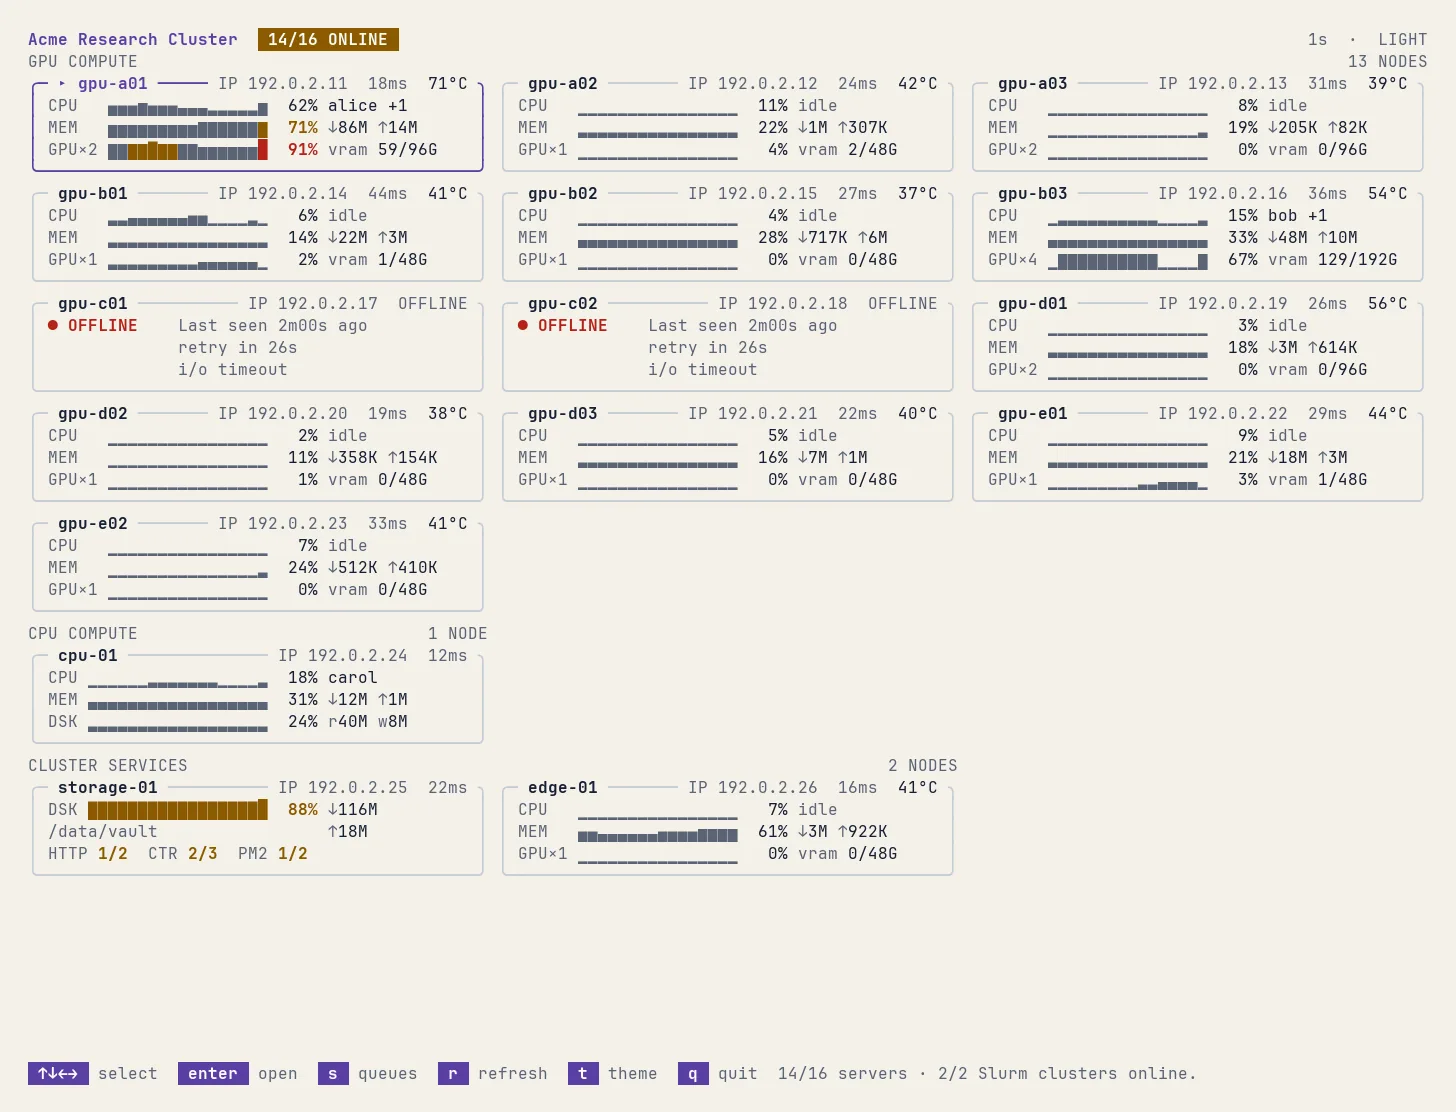
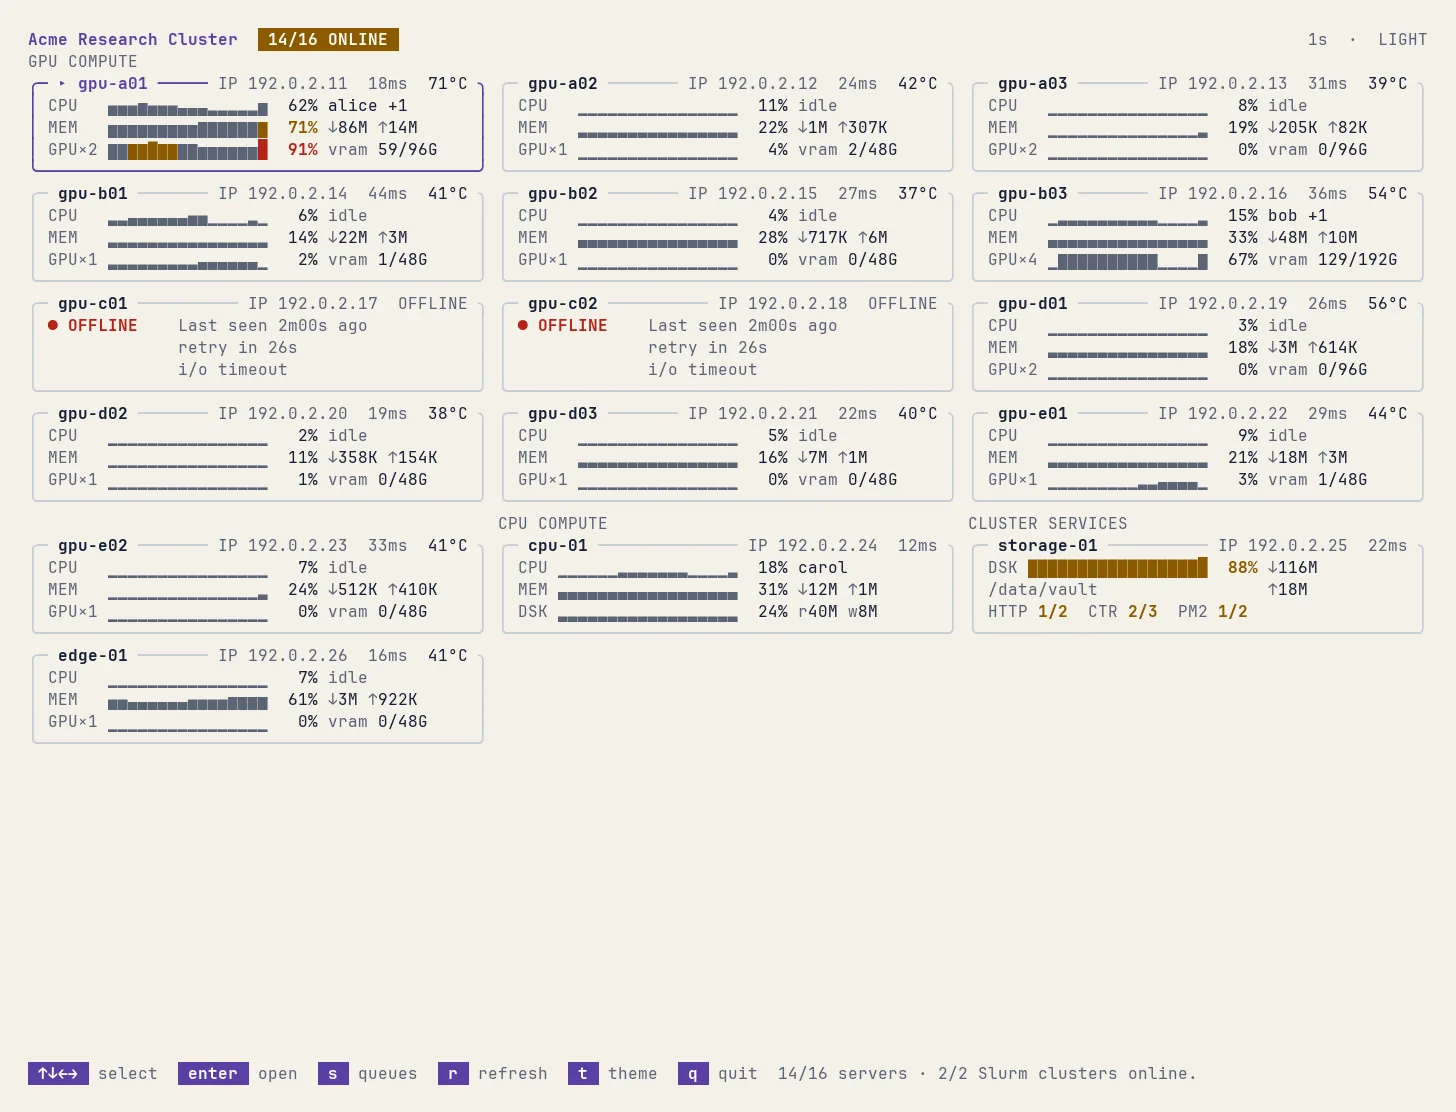
Pack hub cards across groups instead of starting each group on a new row.
A muted group name sits above the first card of that group, in its own column, so the next group fills the rest of the row.

diff --git a/cmd/fleetty/hub.go b/cmd/fleetty/hub.go
@@ -571,8 +571,10 @@ type hubDisplayRow struct {
 }
 
 type hubGroupSpan struct {
-	group int
-	span  int
+	group  int
+	column int
+	span   int
+	label  bool
 }
 
 type hubPage struct {
@@ -1046,31 +1048,7 @@ func (m *hubModel) moveCursorHorizontal(delta int) {
 
 func (m *hubModel) pages() []hubPage {
 	columns := m.columns()
-	// Each group owns its rows. A new group always starts on the next row, so
-	// two headers never share a line and a wrapped tail is not mixed in.
-	var grid []hubDisplayRow
-	row := hubDisplayRow{}
-	flushRow := func() {
-		if len(row.nodes) == 0 {
-			return
-		}
-		grid = append(grid, row)
-		row = hubDisplayRow{}
-	}
-	for groupIndex, group := range m.nodeGroups() {
-		nodes := group.nodes
-		if len(nodes) == 0 {
-			continue
-		}
-		flushRow()
-		for len(nodes) > 0 {
-			take := min(columns, len(nodes))
-			row.headings = append(row.headings, hubGroupSpan{group: groupIndex, span: take})
-			row.nodes = append(row.nodes, nodes[:take]...)
-			nodes = nodes[take:]
-			flushRow()
-		}
-	}
+	grid := m.packedRows(columns)
 	heightBudget := max(hubCardHeight+1, max(10, m.height)-2)
 	var pages []hubPage
 	current := hubPage{}
@@ -1083,31 +1061,80 @@ func (m *hubModel) pages() []hubPage {
 		current = hubPage{}
 		usedHeight = 0
 	}
-
-	var previous []hubGroupSpan
 	for _, row := range grid {
-		heading := len(current.rows) == 0 || len(row.headings) > 1 || len(previous) != 1 || previous[0].group != row.headings[0].group
+		labels := rowGroupLabels(row, len(current.rows) == 0)
 		needed := hubCardHeight
-		if heading {
+		if len(labels) > 0 {
 			needed++
 		}
-		if usedHeight+needed > heightBudget {
+		if len(current.rows) > 0 && usedHeight+needed > heightBudget {
 			flush()
-			heading = true
+			labels = rowGroupLabels(row, true)
+			needed = hubCardHeight
+			if len(labels) > 0 {
+				needed++
+			}
 		}
-		if heading {
-			current.rows = append(current.rows, hubDisplayRow{headings: row.headings})
+		if len(labels) > 0 {
+			current.rows = append(current.rows, hubDisplayRow{headings: labels})
 			usedHeight++
 		}
-		current.rows = append(current.rows, hubDisplayRow{nodes: row.nodes})
+		current.rows = append(current.rows, hubDisplayRow{nodes: append([]int(nil), row.nodes...)})
 		usedHeight += hubCardHeight
-		previous = row.headings
 	}
 	flush()
 	if len(pages) == 0 {
 		pages = []hubPage{{}}
 	}
 	return pages
+}
+
+// packedRows fills each row left to right. A group continues in the next
+// group's slots, so a group's last row has no empty card.
+func (m *hubModel) packedRows(columns int) []hubDisplayRow {
+	if columns < 1 {
+		columns = 1
+	}
+	type item struct {
+		node, group int
+		origin      bool
+	}
+	var items []item
+	for groupIndex, group := range m.nodeGroups() {
+		for index, node := range group.nodes {
+			items = append(items, item{node: node, group: groupIndex, origin: index == 0})
+		}
+	}
+	var grid []hubDisplayRow
+	for start := 0; start < len(items); start += columns {
+		end := min(start+columns, len(items))
+		chunk := items[start:end]
+		row := hubDisplayRow{nodes: make([]int, len(chunk))}
+		for index, item := range chunk {
+			row.nodes[index] = item.node
+			if len(row.headings) == 0 || row.headings[len(row.headings)-1].group != item.group {
+				row.headings = append(row.headings, hubGroupSpan{
+					group: item.group, column: index, span: 1, label: item.origin,
+				})
+				continue
+			}
+			row.headings[len(row.headings)-1].span++
+		}
+		grid = append(grid, row)
+	}
+	return grid
+}
+
+func rowGroupLabels(row hubDisplayRow, pageStart bool) []hubGroupSpan {
+	var labels []hubGroupSpan
+	for _, span := range row.headings {
+		if !span.label && !(pageStart && span.column == 0) {
+			continue
+		}
+		span.label = true
+		labels = append(labels, span)
+	}
+	return labels
 }
 
 func (m *hubModel) clampCursor() {
@@ -1221,12 +1248,7 @@ func (m *hubModel) hubView() string {
 	groups := m.nodeGroups()
 	for _, row := range pages[pageIndex].rows {
 		if len(row.headings) > 0 {
-			var headings []string
-			for _, section := range row.headings {
-				group := groups[section.group]
-				headings = append(headings, renderHubSectionTitle(group.title, group.style, len(group.nodes), section.span*(cardWidth+1)-1))
-			}
-			rows = append(rows, strings.Join(headings, " "))
+			rows = append(rows, renderHubGroupLabels(groups, row.headings, cardWidth))
 			continue
 		}
 		var cards []string
@@ -1267,18 +1289,32 @@ func (m *hubModel) hubView() string {
 	return terminalFrame(body, footer, width, m.height)
 }
 
-func renderHubSectionTitle(title, _ string, count, width int) string {
-	unit := "NODES"
-	if count == 1 {
-		unit = "NODE"
+// renderHubGroupLabels places each new group's name above its first card.
+// Slots are one card wide, so two names on the same row cannot run together.
+func renderHubGroupLabels(groups []hubNodeGroup, spans []hubGroupSpan, cardWidth int) string {
+	last := 0
+	for _, span := range spans {
+		if span.column > last {
+			last = span.column
+		}
 	}
-	label := sectionStyle.Render(truncate(strings.TrimSpace(title), max(1, width)))
-	countLabel := dimStyle.Render(fmt.Sprintf("%d %s", count, unit))
-	if lipgloss.Width(label)+1+lipgloss.Width(countLabel) > width {
-		return ansi.Truncate(label, width, "")
+	slots := make([]string, last+1)
+	for index := range slots {
+		slots[index] = strings.Repeat(" ", cardWidth)
 	}
-	gap := strings.Repeat(" ", width-lipgloss.Width(label)-lipgloss.Width(countLabel))
-	return label + gap + countLabel
+	for _, span := range spans {
+		if span.column < 0 || span.column >= len(slots) || span.group < 0 || span.group >= len(groups) {
+			continue
+		}
+		plain := truncate(strings.TrimSpace(groups[span.group].title), cardWidth)
+		styled := sectionStyle.Render(plain)
+		pad := cardWidth - lipgloss.Width(styled)
+		if pad < 0 {
+			pad = 0
+		}
+		slots[span.column] = styled + strings.Repeat(" ", pad)
+	}
+	return strings.Join(slots, " ")
 }
 
 func (m *hubModel) renderNodeCard(index, width int) string {

diff --git a/cmd/fleetty/hub_grid_test.go b/cmd/fleetty/hub_grid_test.go
@@ -249,63 +249,56 @@ func TestHubPackedGroupsAndPagination(t *testing.T) {
 			}
 		}
 	}
-	// A wrapped GPU tail stays on its own row. Each group header is printed once
-	// per page, and two headers never share a line.
+	// Cards pack left to right across groups. A label stays inside its card
+	// column, so two group names can share a row without running together.
 	for _, width := range []int{140, 187, 220, 238} {
 		m := compactTestHub(width, 48)
+		var rows [][]int
 		var plain string
-		for pageIndex := range m.pages() {
+		for pageIndex, page := range m.pages() {
 			m.offset = pageIndex
 			plain += ansi.Strip(m.hubView()) + "\n"
-			if err := hubRowsAreContiguous(m.pageNodeRows(m.pages()[pageIndex]), m.nodeGroups()); err != nil {
-				t.Fatalf("width %d page %d: %v", width, pageIndex, err)
-			}
+			rows = append(rows, m.pageNodeRows(page)...)
 		}
-		if strings.Count(plain, "GPU COMPUTE") != 1 {
-			t.Fatalf("width %d repeated the GPU header:\n%s", width, plain)
+		if err := hubRowsArePacked(rows, m.nodeGroups(), m.columns()); err != nil {
+			t.Fatalf("width %d: %v", width, err)
 		}
-		if strings.Count(plain, "CPU COMPUTE") != 1 || strings.Count(plain, "CLUSTER SERVICES") != 1 {
-			t.Fatalf("width %d lost a group header:\n%s", width, plain)
+		if strings.Count(plain, "GPU COMPUTE") != 1 || strings.Count(plain, "CPU COMPUTE") != 1 || strings.Count(plain, "CLUSTER SERVICES") != 1 {
+			t.Fatalf("width %d lost or repeated a group label:\n%s", width, plain)
 		}
 		for _, line := range strings.Split(plain, "\n") {
-			if strings.Contains(line, "CPU COMPUTE") && strings.Contains(line, "CLUSTER SERVICES") {
-				t.Fatalf("width %d put two group headers on one row: %s", width, line)
+			cpu := strings.Index(line, "CPU COMPUTE")
+			services := strings.Index(line, "CLUSTER SERVICES")
+			if cpu >= 0 && services >= 0 && services-cpu < len("CPU COMPUTE")+2 {
+				t.Fatalf("width %d jammed two group labels: %s", width, line)
 			}
+		}
+		if width == 140 && (m.columns() != 3 || len(m.pages()) != 1) {
+			t.Fatalf("140x48 columns=%d pages=%d", m.columns(), len(m.pages()))
 		}
 	}
 }
 
-func hubRowsAreContiguous(rows [][]int, groups []hubNodeGroup) error {
-	groupOf := map[int]int{}
-	for index, group := range groups {
-		for _, node := range group.nodes {
-			groupOf[node] = index
-		}
-	}
-	appeared := map[int]bool{}
-	last := -1
-	for _, row := range rows {
+func hubRowsArePacked(rows [][]int, groups []hubNodeGroup, columns int) error {
+	var got, want []int
+	for index, row := range rows {
 		if len(row) == 0 {
 			return fmt.Errorf("empty card row")
 		}
-		present := map[int]bool{}
-		for _, node := range row {
-			group := groupOf[node]
-			if group < last && !present[group] {
-				return fmt.Errorf("node %d returns to an earlier group", node)
-			}
-			present[group] = true
-			last = group
+		if index < len(rows)-1 && len(row) != columns {
+			return fmt.Errorf("row %d left a hole: %v", index, row)
 		}
-		if len(present) > 1 {
-			for group := range present {
-				if appeared[group] {
-					return fmt.Errorf("group %d continues into a mixed row", group)
-				}
-			}
-		}
-		for group := range present {
-			appeared[group] = true
+		got = append(got, row...)
+	}
+	for _, group := range groups {
+		want = append(want, group.nodes...)
+	}
+	if len(got) != len(want) {
+		return fmt.Errorf("packed %d nodes, want %d", len(got), len(want))
+	}
+	for index := range want {
+		if got[index] != want[index] {
+			return fmt.Errorf("packed order %v, want %v", got, want)
 		}
 	}
 	return nil

diff --git a/cmd/fleetty/hub_navigation_test.go b/cmd/fleetty/hub_navigation_test.go
@@ -43,15 +43,15 @@ func newTestHubModel(width, height int, cursor int) *hubModel {
 }
 
 func TestHubUpFromCPUNodeFollowsVisualGrid(t *testing.T) {
-	// Three columns: the GPU tail is its own row, then CPU, then services.
+	// Three columns, packed: [A100 4090 5090] [n1 n2 n3] [n4 intel NAS].
 	model := newTestHubModel(160, 24, 8)
 	model.moveCursorVertical(-1)
-	if model.cursor != 6 {
-		t.Fatalf("up from intel9462 selected index %d, want n4 (6)", model.cursor)
+	if model.cursor != 4 {
+		t.Fatalf("up from intel9462 selected index %d, want n2 (4)", model.cursor)
 	}
 	model.moveCursorVertical(-1)
-	if model.cursor != 3 {
-		t.Fatalf("up from n4 selected index %d, want n1 (3)", model.cursor)
+	if model.cursor != 1 {
+		t.Fatalf("up from n2 selected index %d, want 4090 (1)", model.cursor)
 	}
 }
 
@@ -75,8 +75,8 @@ func TestHubUsesDeclarativeGroupMembership(t *testing.T) {
 func TestHubDownFromN3StaysInSameColumn(t *testing.T) {
 	model := newTestHubModel(160, 24, 5)
 	model.moveCursorVertical(1)
-	if model.cursor != 6 {
-		t.Fatalf("down from n3 selected index %d, want n4 (6)", model.cursor)
+	if model.cursor != 7 {
+		t.Fatalf("down from n3 selected index %d, want NAS (7)", model.cursor)
 	}
 }
 

diff --git a/cmd/fleetty/main_test.go b/cmd/fleetty/main_test.go
@@ -282,16 +282,15 @@ func TestHubConfigAndResponsiveOverview(t *testing.T) {
 				}
 			}
 			gpuCardY := 2
-			nasHeadingY := gpuCardY + hubCardHeight
-			nasCardY := nasHeadingY + 1
+			cardWidth := model.cardWidth()
 			if index, ok := model.nodeAt(0, gpuCardY); !ok || index != 0 {
 				t.Fatalf("GPU card click resolved to index=%d ok=%t", index, ok)
 			}
-			if index, ok := model.nodeAt(0, nasCardY); !ok || index != 1 {
+			if index, ok := model.nodeAt(2*(cardWidth+1), gpuCardY); !ok || index != 1 {
 				t.Fatalf("NAS card click resolved to index=%d ok=%t", index, ok)
 			}
-			if _, ok := model.nodeAt(0, nasHeadingY); ok {
-				t.Fatal("NAS section heading should not be clickable")
+			if _, ok := model.nodeAt(0, gpuCardY-1); ok {
+				t.Fatal("group label should not be clickable")
 			}
 		}
 		if got := lipgloss.Height(rendered); got > size.height {
